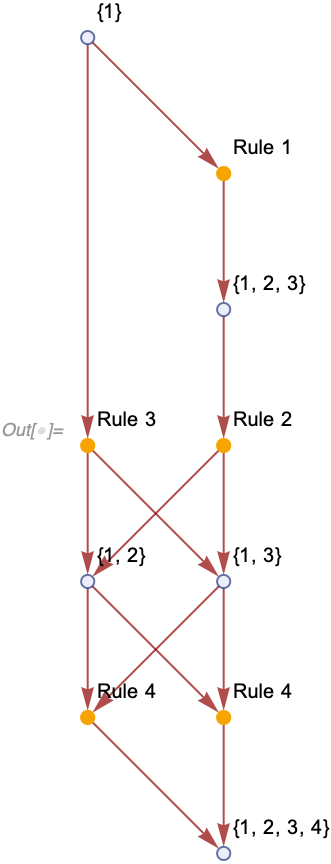
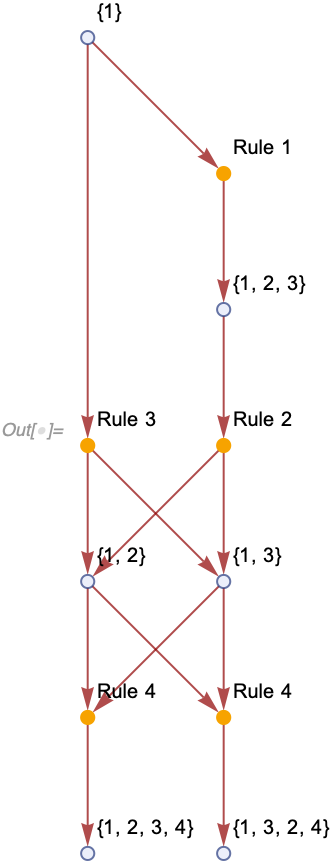
Fix possibly incorrect identification.

diff --git a/Research/LocalMultiwaySystem/LocalMultiwaySystem.md b/Research/LocalMultiwaySystem/LocalMultiwaySystem.md
@@ -533,7 +533,7 @@ In the example above, we will then get:
 In[] := Graph[{{1} -> 1, {1} -> 2, 1 -> {1, 2, 3}, {1, 2, 3} -> 3,
   2 -> {1, 2}, 2 -> {1, 3}, 3 -> {1, 2},
   3 -> {1, 3}, {1, 2} -> 4, {1, 2} -> 5, {1, 3} -> 4, {1, 3} -> 5,
-  4 -> {1, 2, 3, 4}, 5 -> {1, 2, 3, 4}},
+  4 -> {1, 2, 3, 4}, 5 -> {1, 3, 2, 4}},
  EdgeStyle ->
   WolframPhysicsProjectStyleData["ExpressionsEventsGraph",
    "EdgeStyle"],
@@ -548,6 +548,15 @@ In[] := Graph[{{1} -> 1, {1} -> 2, 1 -> {1, 2, 3}, {1, 2, 3} -> 3,
 
 <img src="Images/LocalMultiwayIsomorphism.png" width="199">
 
-This approach will be the most compact representation of a multiway system yet.
+Even in this simple example, however, it's not clear exactly how one should identify.
+For example, one can argue that the two expressions at the last layer should be identified.
+Indeed, if considering the evolutions starting all the way from the expression `{1}`, both atoms `2` and `3` are new.
+Therefore, the two possible final states `{{1, 2, 3, 4}}` and `{{1, 3, 2, 4}}` are isomorphic under the renaming
+`{2 -> 3, 3 -> 2}`.
+However, if one was to identify them, one of the events corresponding to rule 4 will be instantiated incorrectly as it
+will match the inputs in the order `{{1, 3}, {1, 2}}` but will name the outputs for the order `{{1, 2}, {1, 3}}`.
+
+But if there is a consistent way to define it, this approach will be the most compact representation of a multiway
+system so far.
 It will allow us to see the internal structure of the global multiway system evolution, which is currently inaccessible.
 The implementation is tracked in [#349](https://github.com/maxitg/SetReplace/issues/349).
